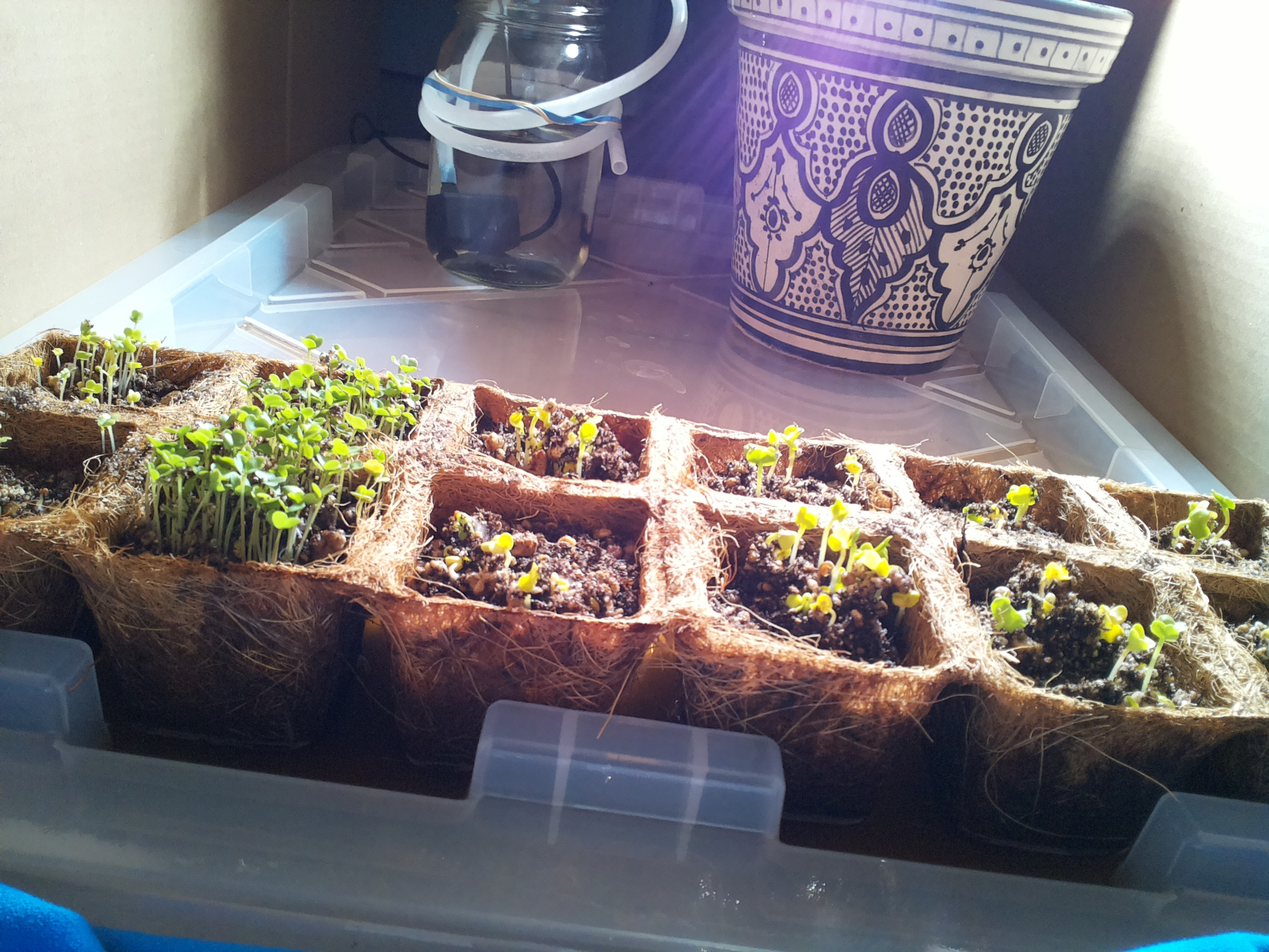
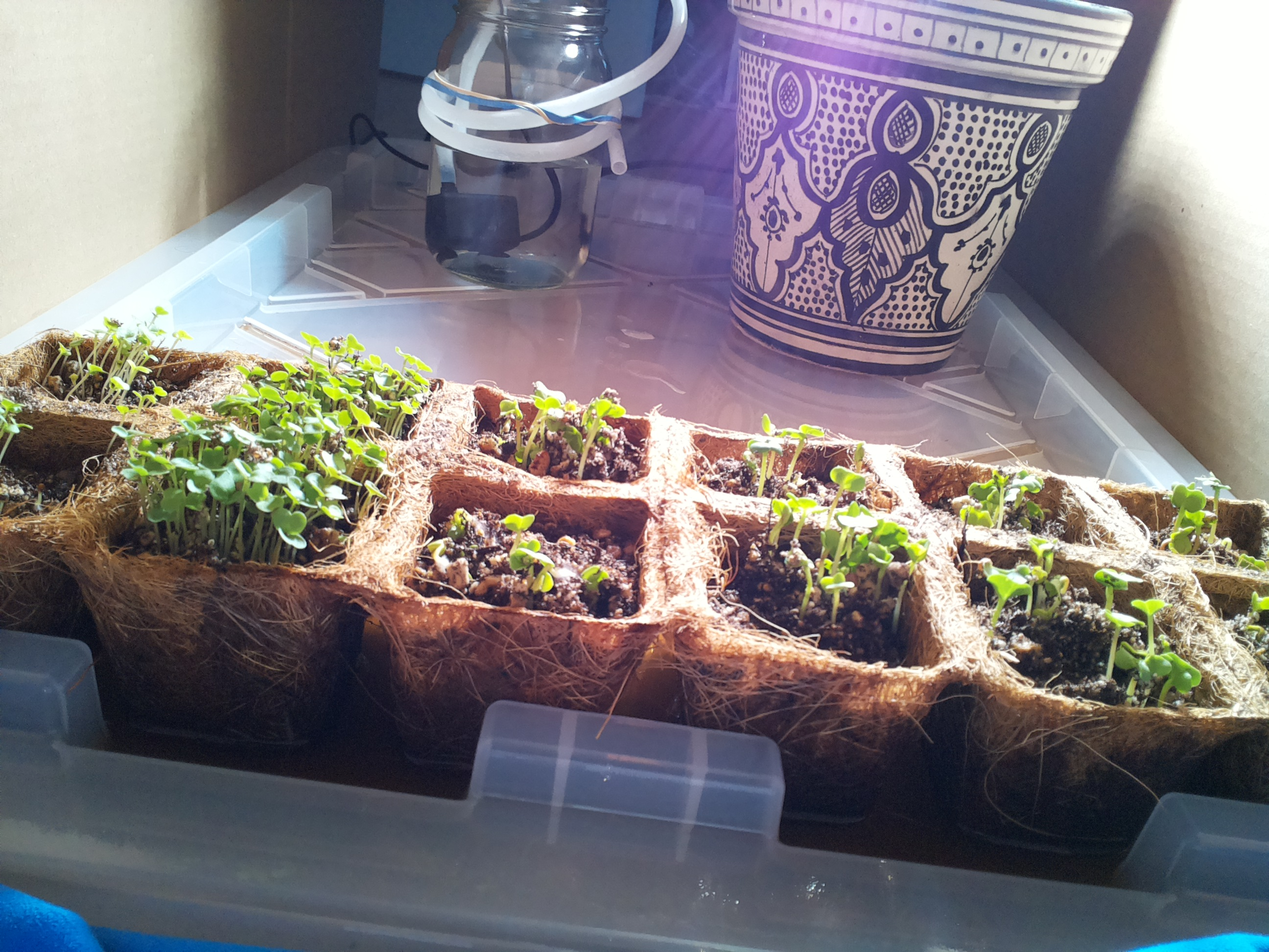
mirror sync 2026-08-27 13:10

diff --git a/JOURNAL.md b/JOURNAL.md
@@ -77,3 +77,9 @@
 - Soil: medium — not saturated, coir walls pale/dry-looking. Lamp: on — correct for photoperiod.
 - Watering: 4s pulse per standing order 2 (4s of 60s daily cap used; water.py OK, pump off). Post-pulse photo confirms fresh water on the lid channels — bottom-feed path working.
 - Jar ~30%, pump body still submerged but margin is shrinking — estimate ~2-3 more days of 8s/day pulses. Continue aggressive skipping when soil is dark; check level against pump body every check-in per standing order 2.
+
+### 2026-08-27 13:07 — midday check-in (cron, observe only)
+- Photo: seedlings advancing in all cells (day 3). Left cells a tall dense green mat; middle/right sprouts have greened up and opened cotyledons (yesterday's yellow ones now green). No mold/pests/tipping.
+- Soil: cell surfaces mostly dark/damp; coir walls pale as usual. No alarming dry-down since 07:12. Bright sunlight patch across the middle cells in the photo.
+- Jar ~25-30% — pump body still submerged but the margin above it is getting thin. Reservoir remains the watch item; keep estimating against pump-body height each check-in.
+- Lamp: on — correct for photoperiod. Watering: none (observe-only per standing order 2); 4s of 60s daily cap used. Evening 19:22 pulse planned unless soil looks dark. No changes to standing orders.
